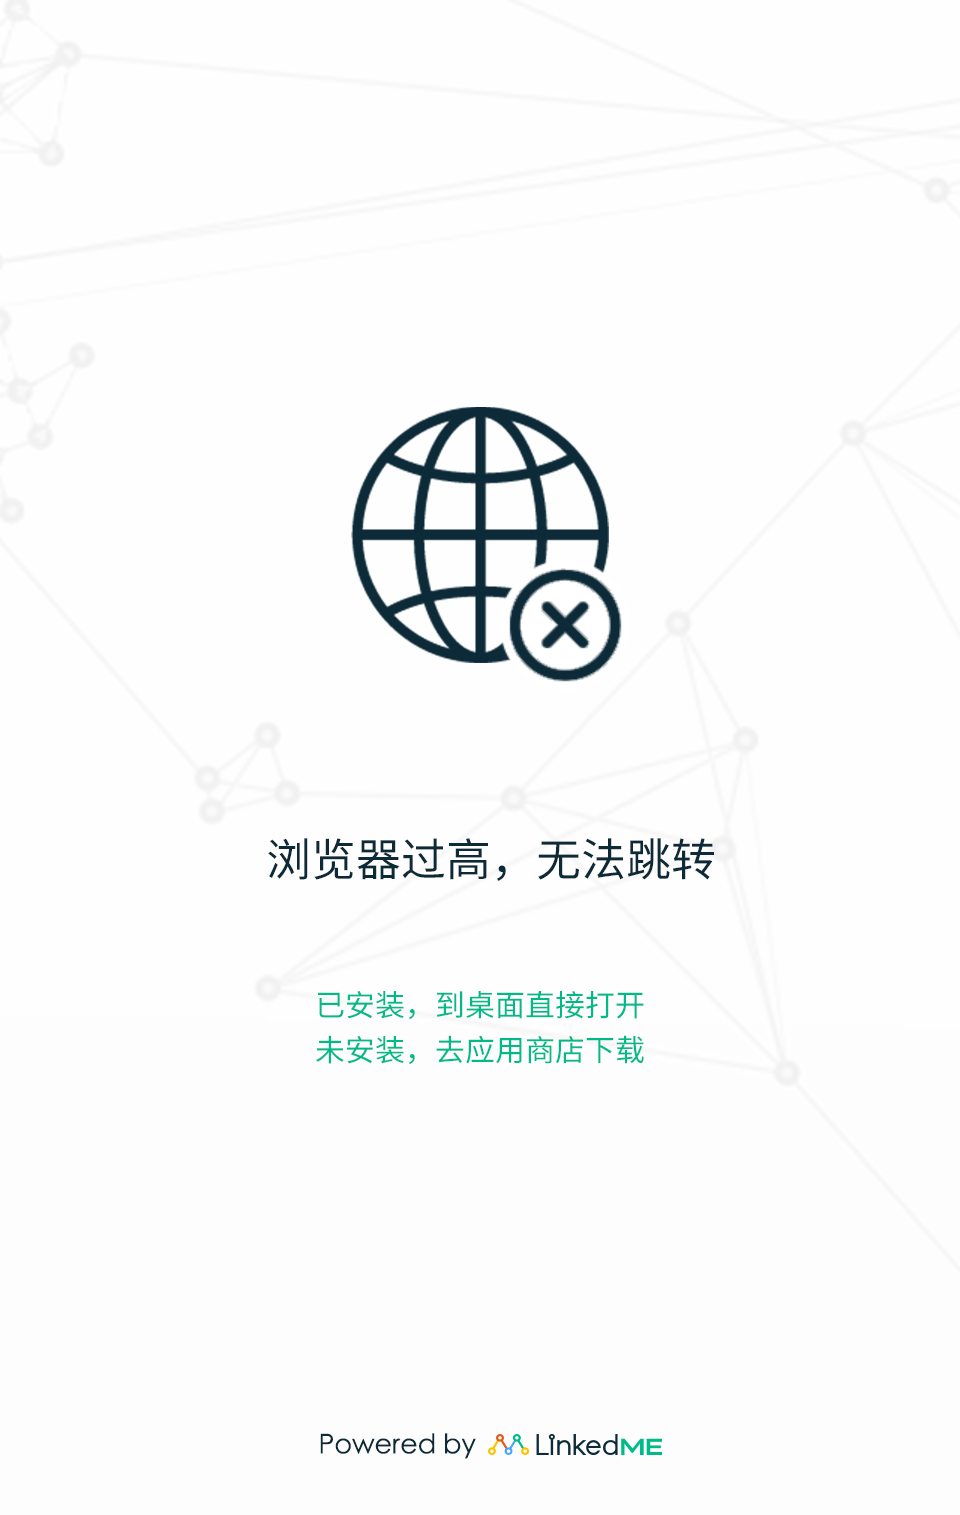
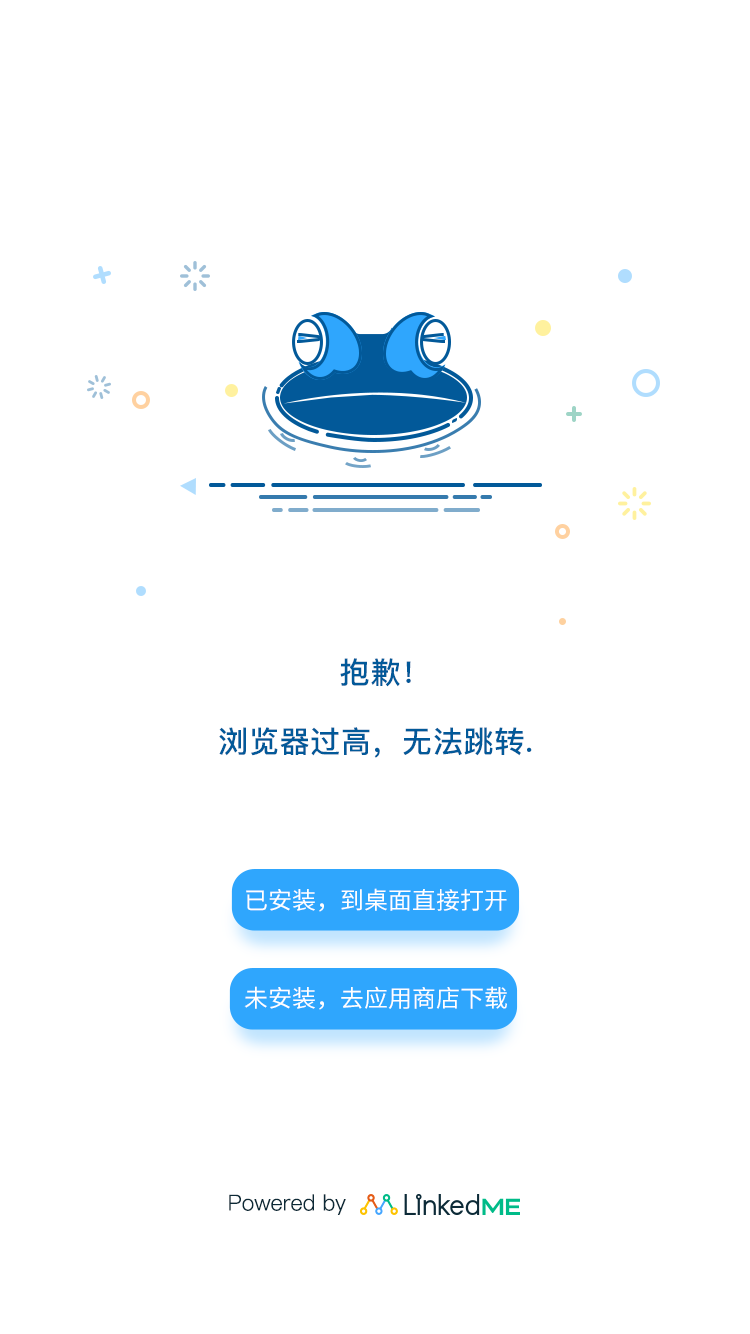
three point page

diff --git a/lkme-web/src/main/webapp/js/linkedme-redirect4.js b/lkme-web/src/main/webapp/js/linkedme-redirect4.js
@@ -124,14 +124,19 @@ function start() {
             if (Params.isUniversalLink()) {
                 DEBUG_ALERT("isUniversalLink = true");
                 iOSSafariLaunch(launchAppUrl, 2500, function () {
-                    var destination = lkmeAction.destination.iOSUniversalLink;
-                    var div_universal_link_open_btn = '<div style="background-image:url(' + baseImgPathLang + 'ios9_open.png);background-size: 100% 100%;width:100%;height:100%;">    <div style="text-align:center; width:100%; position:absolute; top:80%;">        <button id="btnGotoAppStore" style="font-size: 1em; background-color:#FFFFFF; border: 3px solid #959595; color: #959595; padding: 6px 20px; -webkit-border-radius: 30px; -moz-border-radius: 30px; border-radius: 30px;">' + gotoAppStore + "</button></div></div>";
-                    $("body").append(div_universal_link_open_btn), $("#btnGotoAppStore").click(function () {
+                    $("#btnGotoAppStore").click(function () {
                         lkmeAction.recordJSUserClickEvent("gotoAppStore");
                         lkmeAction.recordId();
                         gotoUrl(Params.forward_url, destination);
                     });
                 });
+                var destination = lkmeAction.destination.iOSUniversalLink;
+                var div_universal_link_open_btn = '<div style="height:100%;"><img id="baseImg" src="' + baseImgPathLang + 'ios9_open.png"/><div cl    ass="img-pos" style=" position:absolute; top:80%;left:50%;margin-left:-70px;">        <button id="btnGotoAppStore" style="font-size: 0.1em; background    -color:#FFFFFF; border: 3px solid #959595; color: #959595; padding: 5px 0%; -webkit-border-radius: 30px; -moz-border-radius: 30px; border-radius: 30px    ;width:140px">' + gotoAppStore + "</button></div></div>";
+                $("body").append(div_universal_link_open_btn);
+                baseImg.onload = function(){
+                    var h = $('#baseImg').height()*0.8;
+                    $('.img-pos').css('top',h+'px');
+                };
             } else if (Params.isChrome()) {
                 DEBUG_ALERT("isChrome");
                 iOSChromeLaunch(a, function () {
@@ -193,7 +198,7 @@ function gotoUrl(forwardUrl, destination) {
 
 function gotoTip(platform, destination) {
     var imgInfo = "<img src=" + baseImgPathLang + 'open_{mobile-os}_browser.png align="center" style="height: 100%;"/>';
-    var pageTemplate = '<div class="image-tip" width="100%" height="100%" style="position:relative;"><div style="background-color:#ffffff;width:100%;height:100%;position:absolute; top:0;">{img_tip}</div><div style="text-align:center; width:100%; position:absolute; top:67%"></div></div>';
+    var pageTemplate = '<div class="image-tip" width="100%" height="100%" style="position:relative;"><div style="background-color:#ffffff;width:100%;height:100%;position:absolute; top:0;">{img_tip}</div></div>';
     $("body").append(pageTemplate.replace(/{img_tip}/g, imgInfo).replace(/{logo_url}/g, Params.logo_url).replace(/{mobile-os}/g, platform));
     $(".image-tip").show();
     if (window.location.search.indexOf("visit_id") < 0) {
